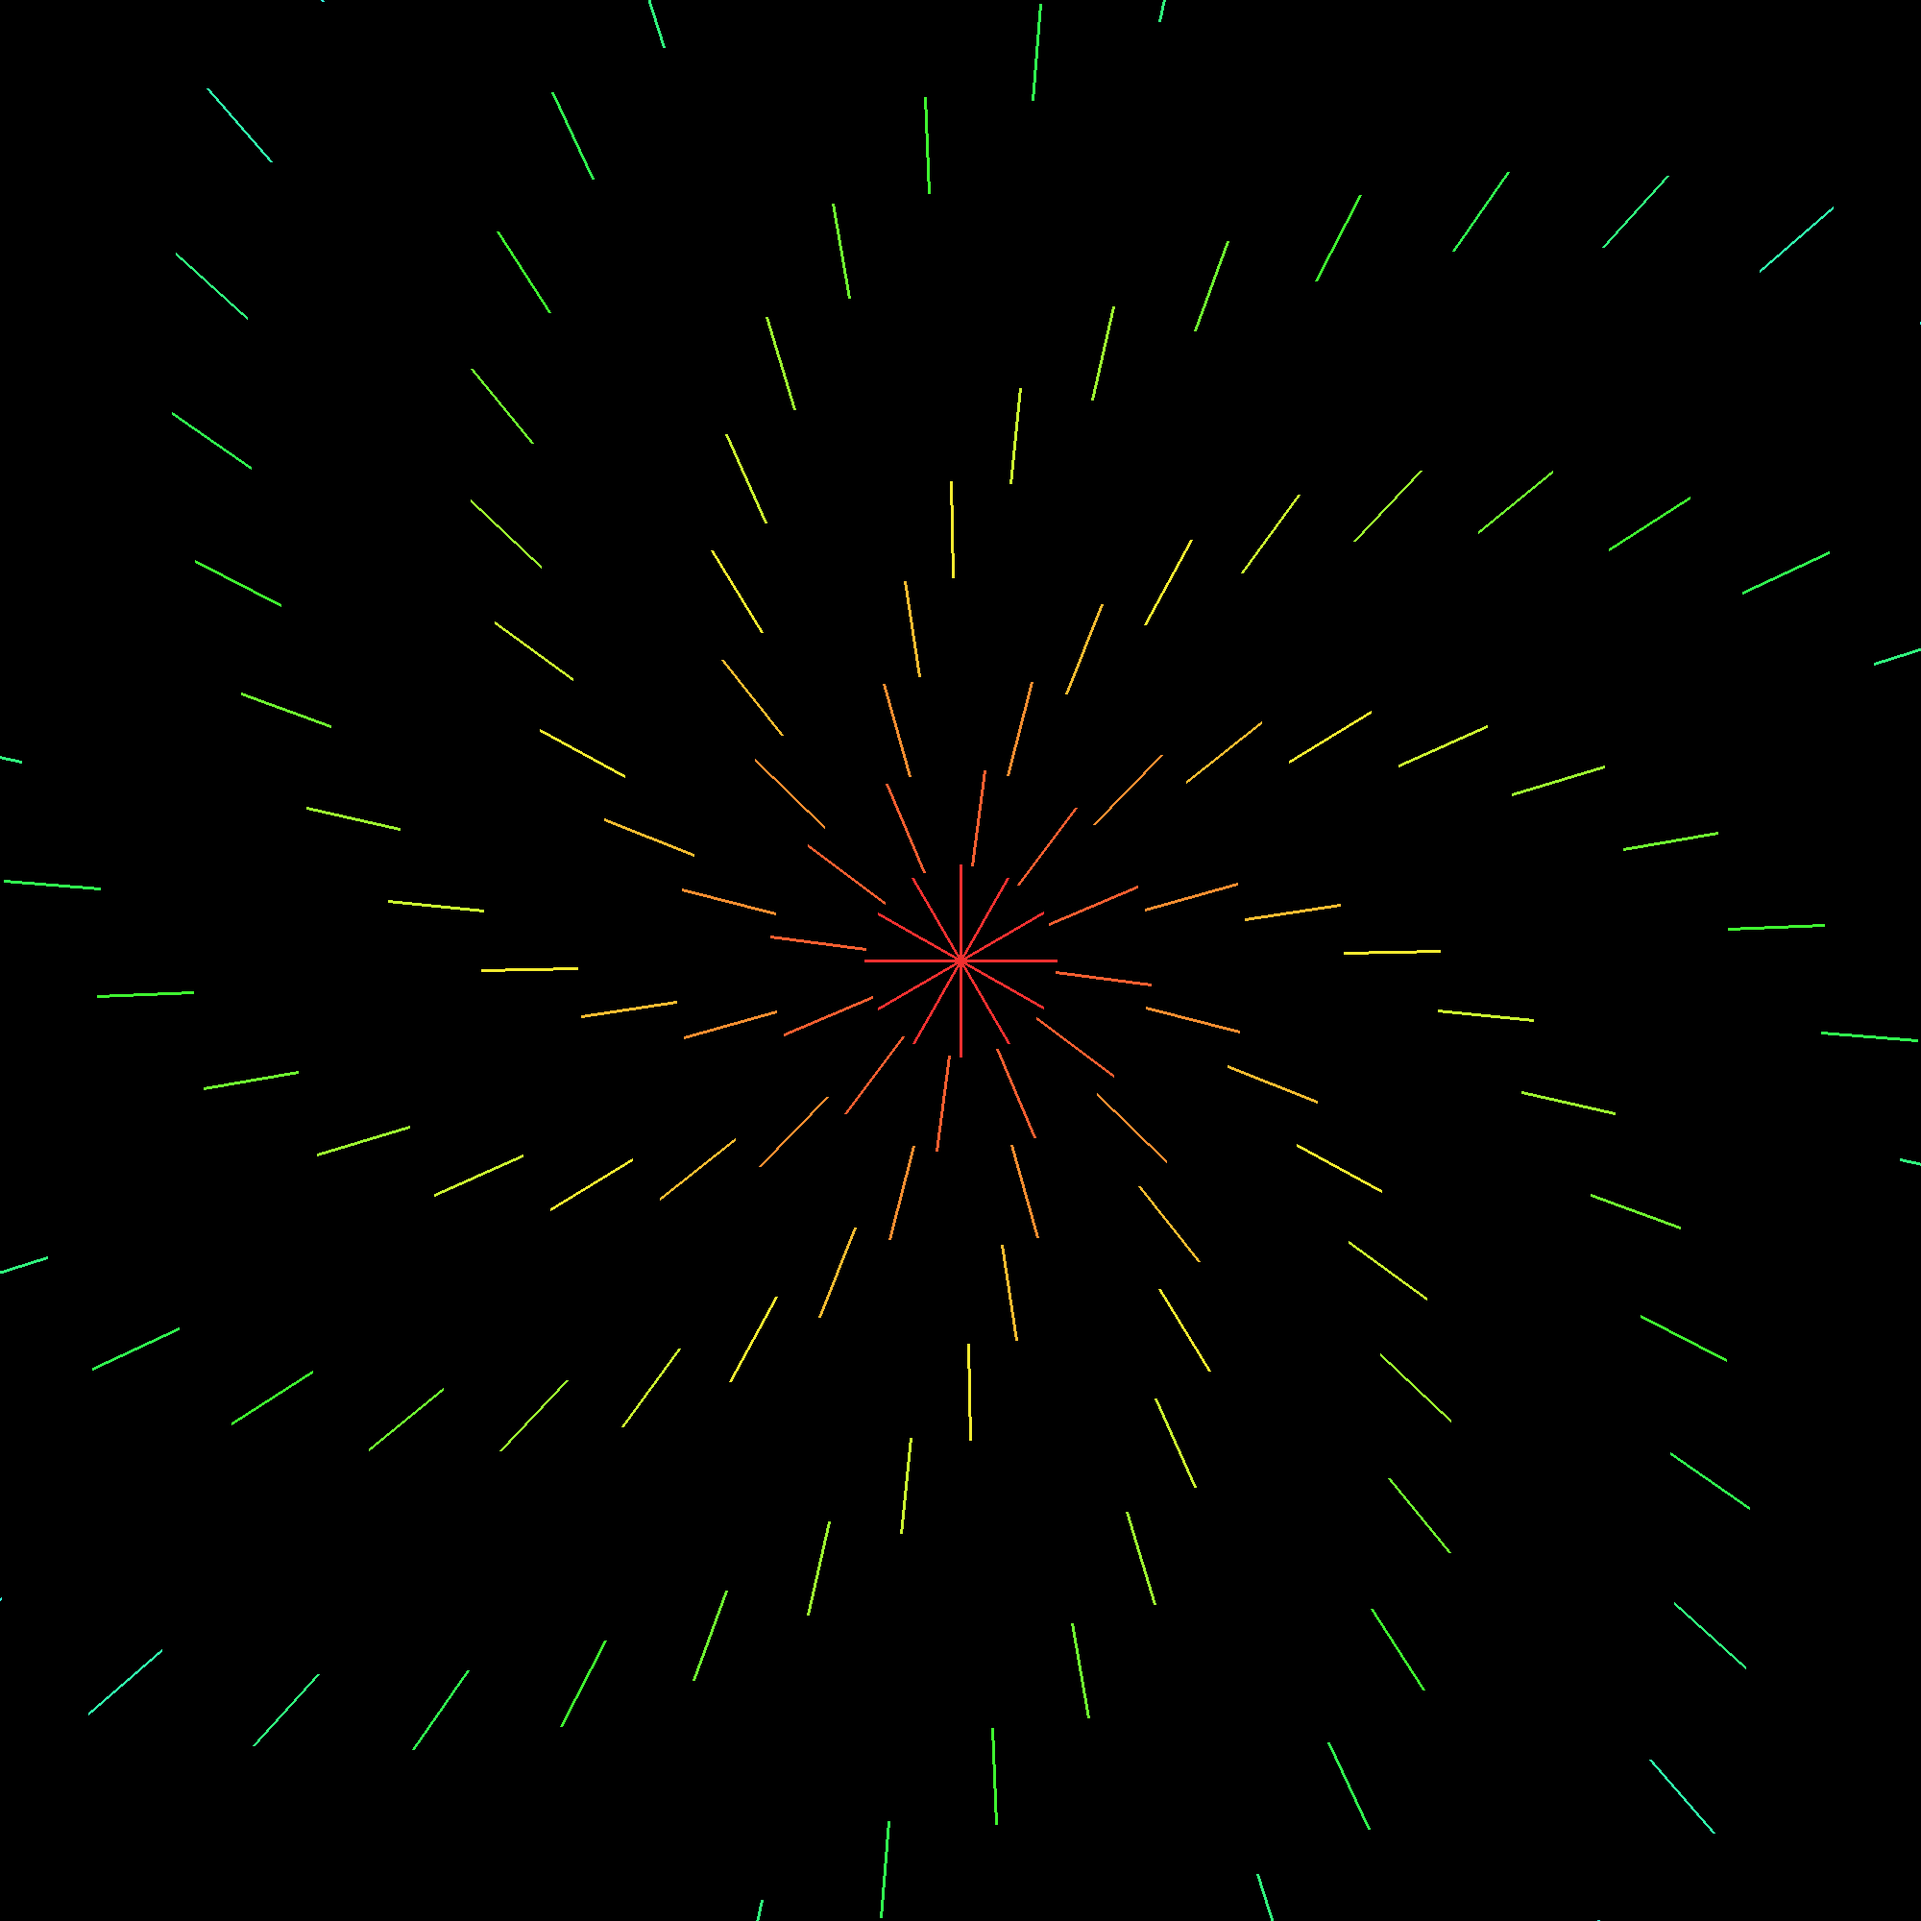
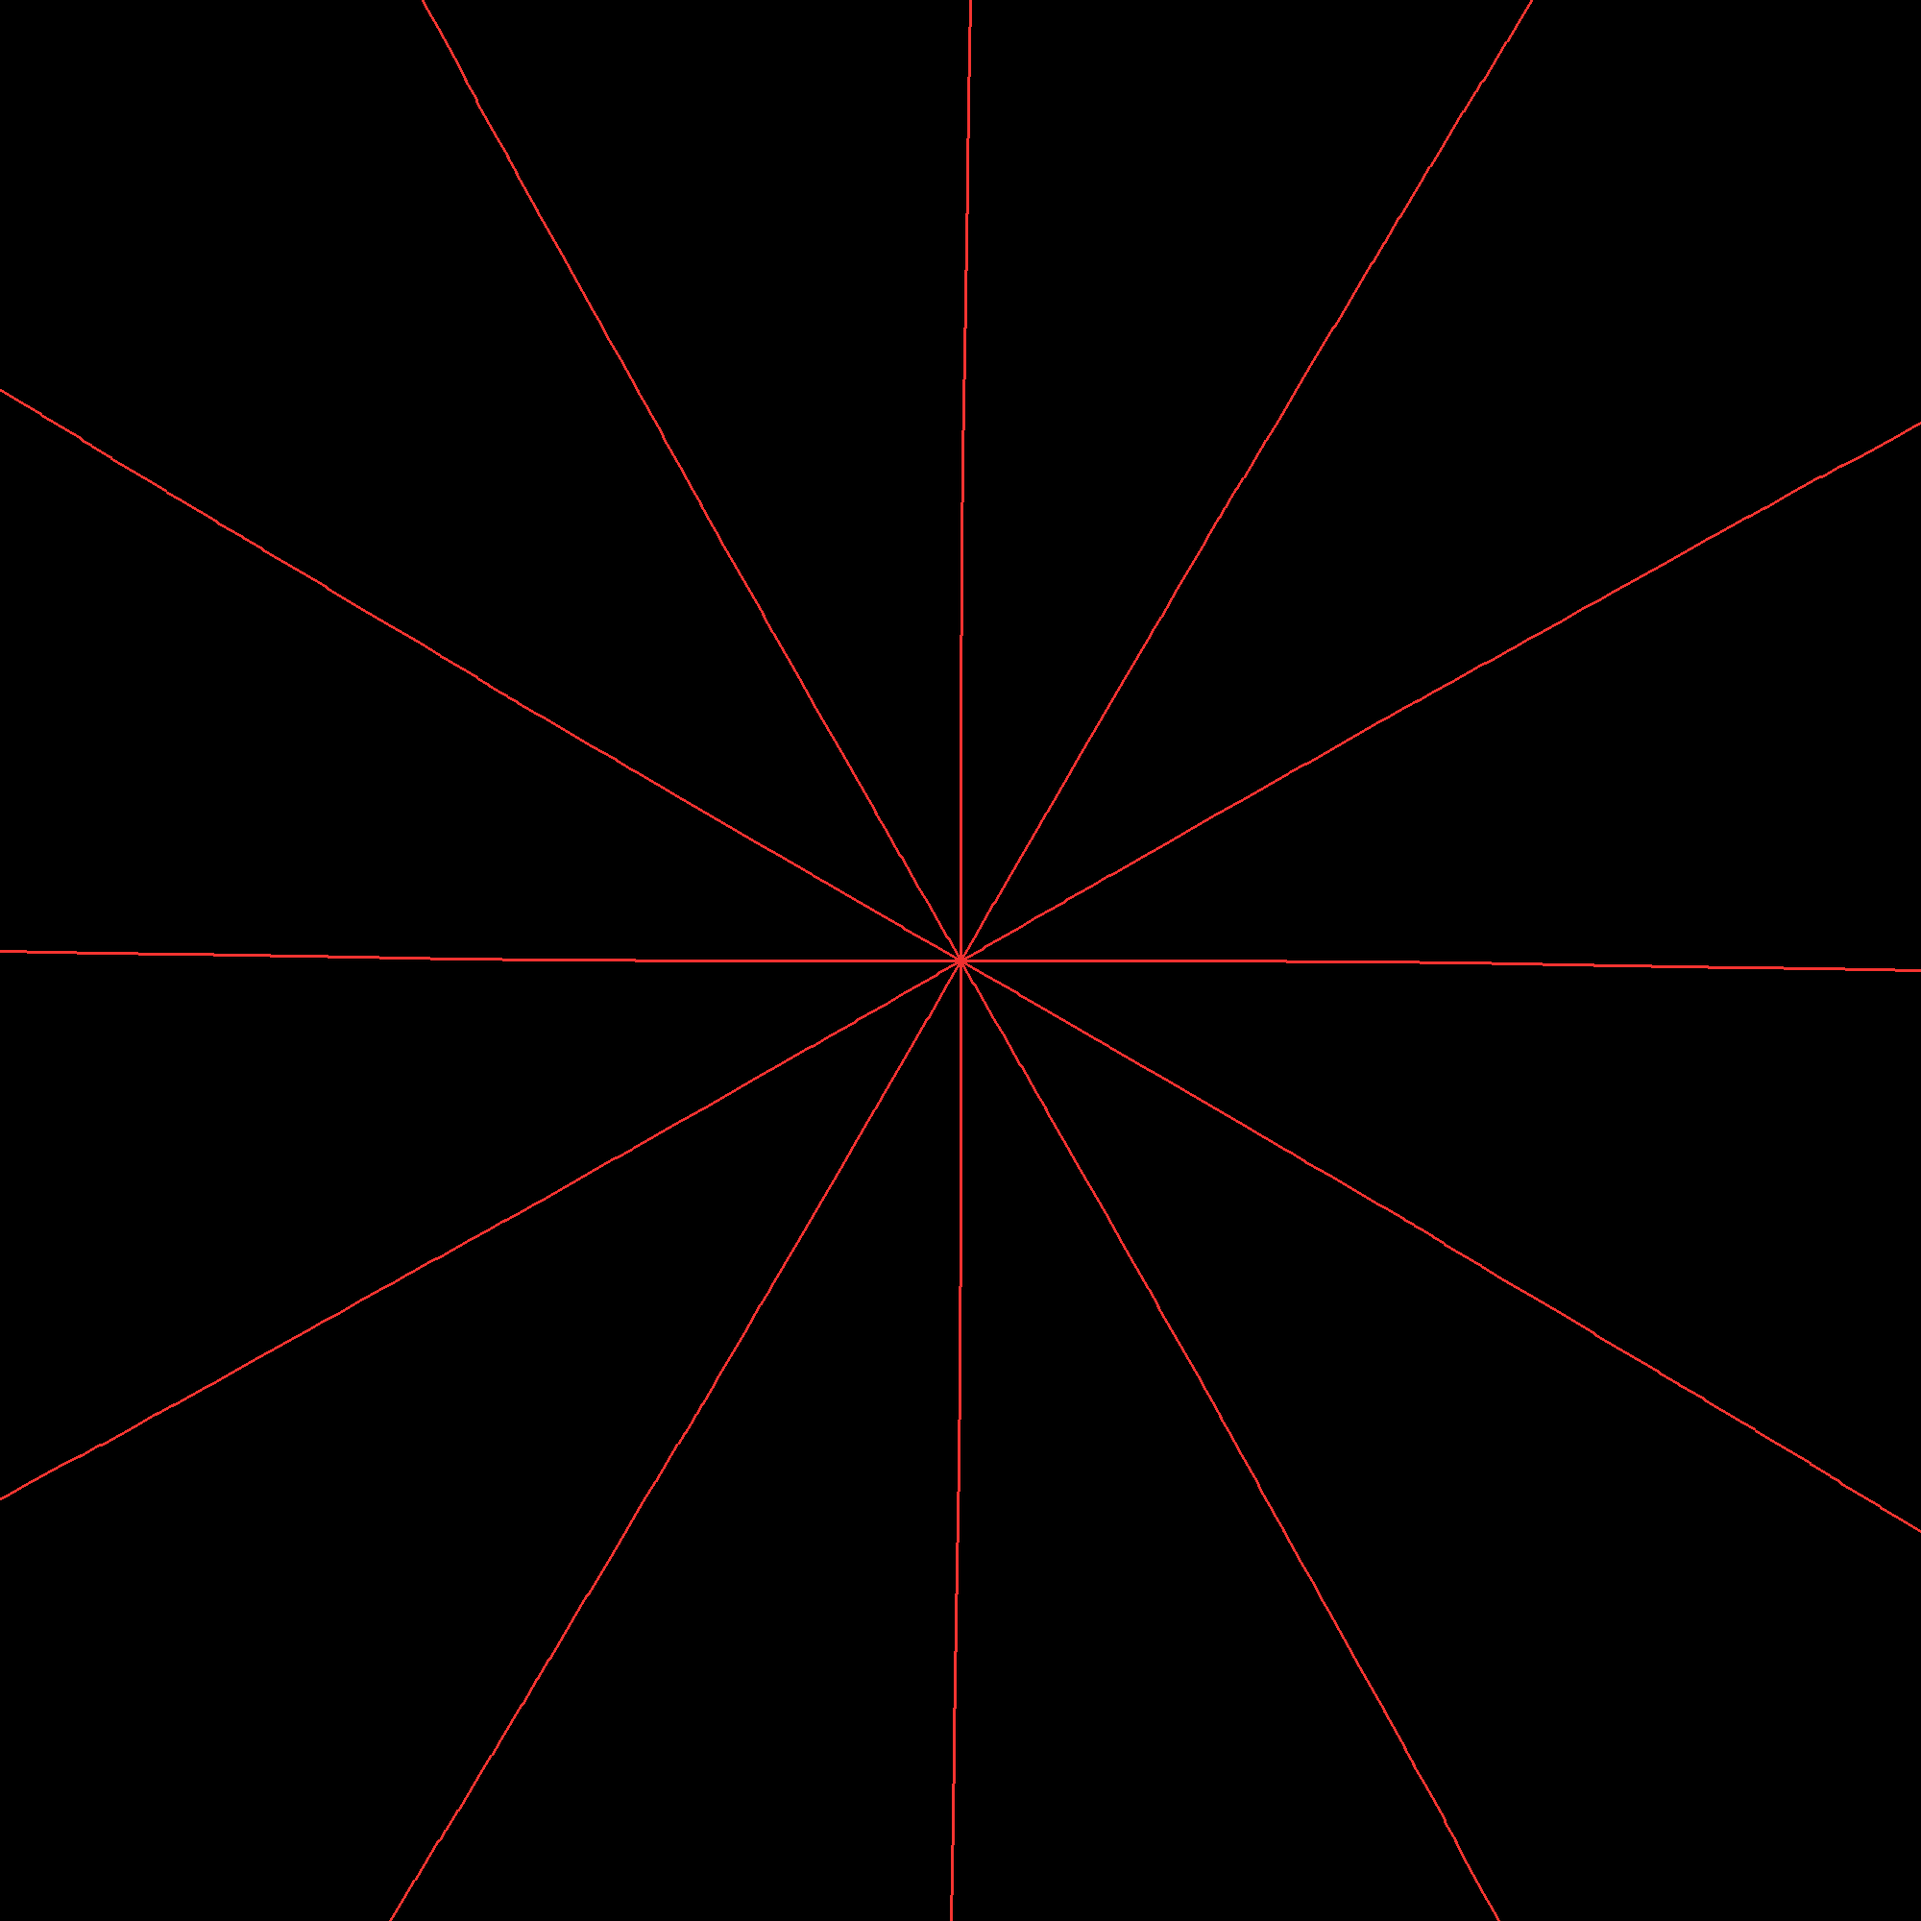
changed the way colofield.go, webb and flower works to get different results

diff --git a/euklid/euklid.go b/euklid/euklid.go
@@ -1,6 +1,9 @@
 package euklid
 
-import "math/big"
+import (
+	"math"
+	"math/big"
+)
 
 func GCD(a, b int) int {
 	for b != 0 {
@@ -20,7 +23,9 @@ func TruncateBig(x *big.Int, digits int) *big.Int {
 	return n
 }
 
-// StepsBig returnerar normaliserade steg (1–maxStep) för att kunna ritas.
+// StepsBig returnerar normaliserade steg (1–maxStep) med logaritmisk skala.
+// Logaritmisk skala behövs eftersom primtal ger extremt ojämn fördelning —
+// ett par enorma steg och tusentals winziga — linjär skala gör alla små steg = 1.
 func StepsBig(a, b *big.Int, maxStep int) []int {
 	zero := big.NewInt(0)
 	var rawSteps []*big.Int
@@ -35,23 +40,28 @@ func StepsBig(a, b *big.Int, maxStep int) []int {
 		a, b = b, new(big.Int).Mod(a, b)
 	}
 
-	maxQ := big.NewInt(0)
-	for _, q := range rawSteps {
-		if q.Cmp(maxQ) > 0 {
-			maxQ.Set(q)
+	// Konvertera till float64 via log för att hantera extrema värden
+	logVals := make([]float64, len(rawSteps))
+	maxLog := 0.0
+	for i, q := range rawSteps {
+		f, _ := new(big.Float).SetInt(q).Float64()
+		if f < 1 {
+			f = 1
+		}
+		l := math.Log(f)
+		logVals[i] = l
+		if l > maxLog {
+			maxLog = l
 		}
 	}
 
 	steps := make([]int, len(rawSteps))
-	maxBig := big.NewInt(int64(maxStep))
-	for i, q := range rawSteps {
-		if maxQ.Sign() == 0 {
+	for i, l := range logVals {
+		if maxLog == 0 {
 			steps[i] = 1
 			continue
 		}
-		scaled := new(big.Int).Mul(q, maxBig)
-		scaled.Div(scaled, maxQ)
-		v := int(scaled.Int64())
+		v := int(l / maxLog * float64(maxStep))
 		if v < 1 {
 			v = 1
 		}

diff --git a/canvas/flower.go b/canvas/flower.go
@@ -7,35 +7,31 @@ import (
 
 func DrawFlower(img *image.RGBA, steps []int, cx, cy int) {
 	total := len(steps)
-	petals := 12
+	petals := 16
 	angleStep := 2 * math.Pi / float64(petals)
 
 	for p := 0; p < petals; p++ {
 		baseAngle := float64(p) * angleStep
-		r := 0.0
 
 		for i := 0; i < total; i++ {
 			if steps[i] == 0 {
 				break
 			}
-			c := StepColor(i, total)
 			t := float64(i) / float64(total)
 
-			// Petalform: r växer och krymper per kronblad
-			petalR := r * math.Abs(math.Sin(t*math.Pi))
-			angle := baseAngle + t*math.Pi*0.5
+			// Petalform: Rose curve — r = cos(k*theta)
+			theta := t * math.Pi
+			r := float64(steps[i]) * 2.0 * math.Abs(math.Cos(3*theta))
 
-			x1 := cx + int(petalR*math.Cos(angle))
-			y1 := cy + int(petalR*math.Sin(angle))
+			angle := baseAngle + theta
+			c := StepColor(p*total/petals+i, total)
 
-			r += float64(steps[i]) * 0.3
-			petalR2 := r * math.Abs(math.Sin(t*math.Pi))
+			x1 := cx + int(r*0.8*math.Cos(angle))
+			y1 := cy + int(r*0.8*math.Sin(angle))
+			x2 := cx + int(r*math.Cos(angle+0.05))
+			y2 := cy + int(r*math.Sin(angle+0.05))
 
-			x2 := cx + int(petalR2*math.Cos(angle))
-			y2 := cy + int(petalR2*math.Sin(angle))
-
-			DrawThickLine(img, x1, y1, x2, y2, 3, c)
+			DrawThickLine(img, x1, y1, x2, y2, 2, c)
 		}
-		r = 0.0
 	}
 }

diff --git a/canvas/web.go b/canvas/web.go
@@ -10,7 +10,6 @@ func DrawWeb(img *image.RGBA, steps []int, cx, cy int) {
 	bounds := img.Bounds()
 	radius := float64(min(bounds.Max.X, bounds.Max.Y)/2) * 0.9
 
-	// Rita spekar från centrum ut till ringen
 	spokes := total
 	if spokes > 360 {
 		spokes = 360
@@ -19,20 +18,22 @@ func DrawWeb(img *image.RGBA, steps []int, cx, cy int) {
 
 	spokeX := make([]int, spokes)
 	spokeY := make([]int, spokes)
+
+	// Rita spekar med unik färg per spake
 	for i := 0; i < spokes; i++ {
 		angle := float64(i) * angleStep
 		spokeX[i] = cx + int(radius*math.Cos(angle))
 		spokeY[i] = cy + int(radius*math.Sin(angle))
-		c := StepColor(i, total)
+		c := StepColor(i, spokes)
 		DrawThickLine(img, cx, cy, spokeX[i], spokeY[i], 1, c)
 	}
 
-	// Koppla spekar med varandra baserat på stegen
+	// Koppla spekar med färg baserad på position i hela steglistan
 	for i := 0; i < spokes-1; i++ {
 		if steps[i] == 0 {
 			break
 		}
-		c := StepColor(i, total)
+		c := StepColor(i, spokes)
 		jump := steps[i] % spokes
 		if jump == 0 {
 			jump = 1

diff --git a/canvas/colorfield.go b/canvas/colorfield.go
@@ -5,7 +5,6 @@ import (
 	"math"
 )
 
-// HSVtoRGB converts hue (0-360), saturation and value (0-1) to RGBA
 func HSVtoRGB(h, s, v float64) color.RGBA {
 	h = math.Mod(h, 360)
 	c := v * s
@@ -36,7 +35,6 @@ func HSVtoRGB(h, s, v float64) color.RGBA {
 	}
 }
 
-// StepColor maps a GCD step index to a color
 func StepColor(step, total int) color.RGBA {
 	hue := float64(step) / float64(total) * 360
 	return HSVtoRGB(hue, 0.8, 0.95)

diff --git a/main.go b/main.go
@@ -26,8 +26,8 @@ func loadPrime(filename string, maxDigits int) *big.Int {
 
 func main() {
 	fmt.Println("Läser primtal...")
-	p1 := loadPrime("a.txt", 10000)
-	p2 := loadPrime("b.txt", 10000)
+	p1 := loadPrime("p2.txt", 10000)
+	p2 := loadPrime("p1.txt", 10000)
 
 	fmt.Println("Kör Euklides algoritm...")
 	steps := euklid.StepsBig(p1, p2, 400)
